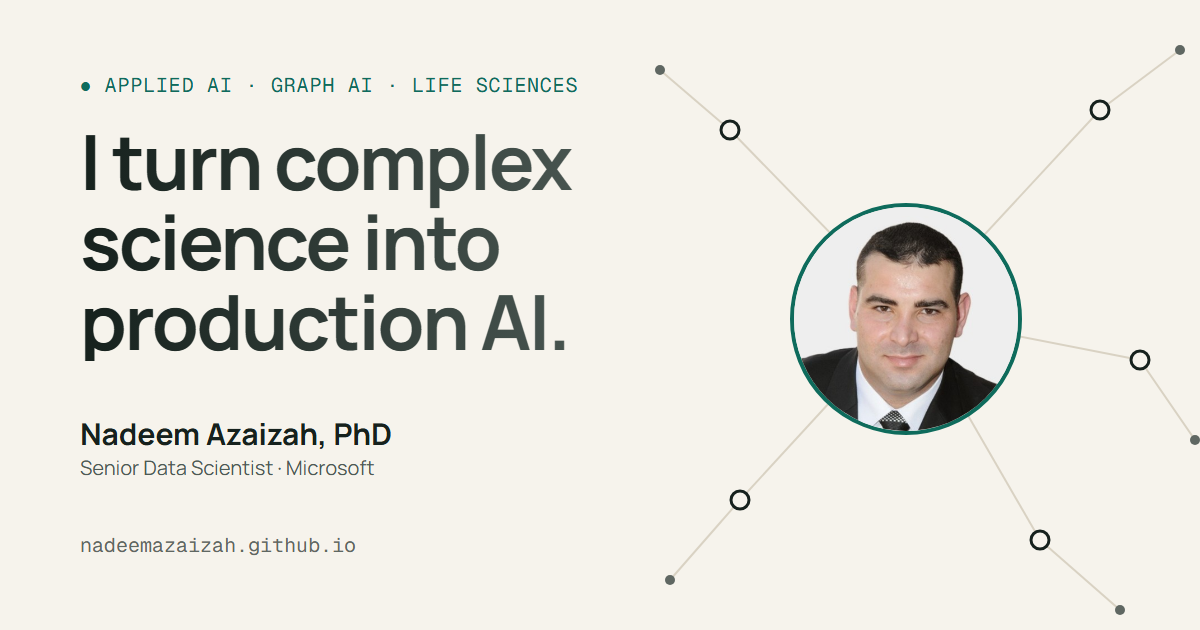
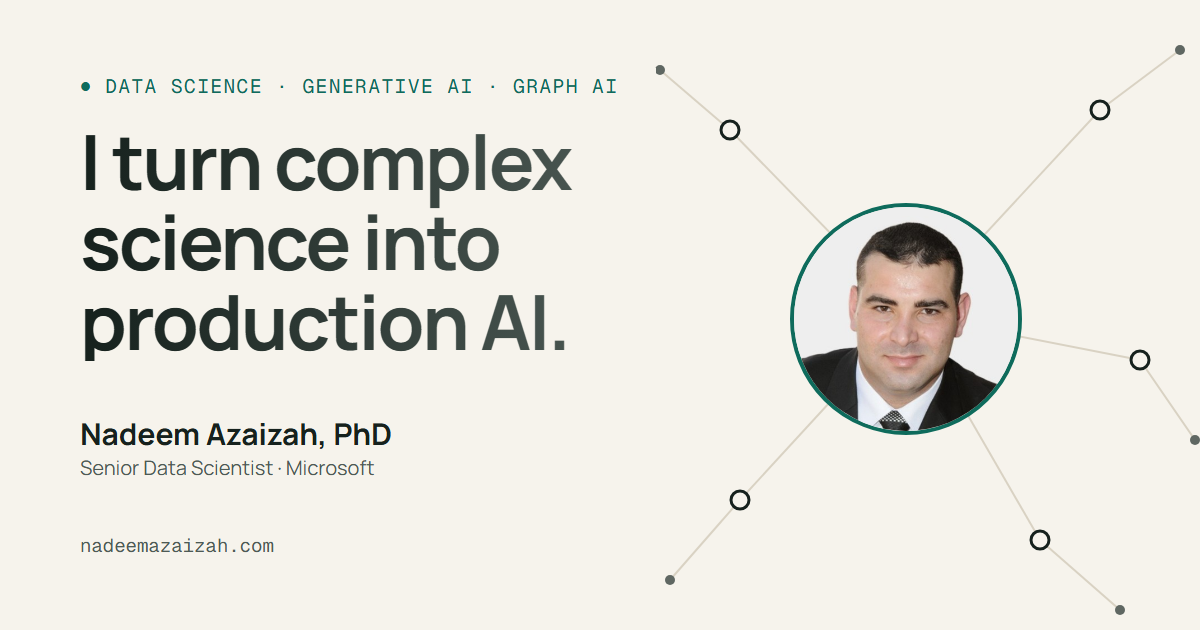
Use custom domain nadeemazaizah.com
Also ships the refreshed link preview image.

Changed region(s): [[0.0925, 0.1206, 0.5242, 0.1508], [0.0617, 0.8444, 0.3083, 0.8746]]

diff --git a/index.html b/index.html
@@ -7,19 +7,19 @@
   <meta name="description" content="Nadeem Azaizah is a Senior Data Scientist at Microsoft building production GenAI, RAG, multi agent and graph based AI systems, from research to deployment. PhD in graph based machine learning.">
   <meta name="author" content="Nadeem Azaizah">
   <meta name="theme-color" content="#F6F3EC">
-  <link rel="canonical" href="https://nadeemazaizah.github.io/">
+  <link rel="canonical" href="https://nadeemazaizah.com/">
 
   <meta property="og:type" content="profile">
   <meta property="og:title" content="Nadeem Azaizah, PhD · Applied AI and Graph AI">
   <meta property="og:description" content="Senior Data Scientist at Microsoft. Production GenAI, agentic and graph based AI, from research to deployment.">
-  <meta property="og:url" content="https://nadeemazaizah.github.io/">
-  <meta property="og:image" content="https://nadeemazaizah.github.io/assets/img/og.png">
+  <meta property="og:url" content="https://nadeemazaizah.com/">
+  <meta property="og:image" content="https://nadeemazaizah.com/assets/img/og.png">
   <meta property="og:image:width" content="1200">
   <meta property="og:image:height" content="630">
   <meta name="twitter:card" content="summary_large_image">
   <meta name="twitter:title" content="Nadeem Azaizah, PhD · Applied AI and Graph AI">
   <meta name="twitter:description" content="Senior Data Scientist at Microsoft. Production GenAI, agentic and graph based AI, from research to deployment.">
-  <meta name="twitter:image" content="https://nadeemazaizah.github.io/assets/img/og.png">
+  <meta name="twitter:image" content="https://nadeemazaizah.com/assets/img/og.png">
 
   <link rel="icon" href="favicon.svg" type="image/svg+xml">
   <link rel="apple-touch-icon" href="assets/img/profile.jpg">
@@ -44,8 +44,8 @@
       { "@type": "CollegeOrUniversity", "name": "Ariel University" },
       { "@type": "CollegeOrUniversity", "name": "University of Haifa" }
     ],
-    "url": "https://nadeemazaizah.github.io/",
-    "image": "https://nadeemazaizah.github.io/assets/img/profile.jpg",
+    "url": "https://nadeemazaizah.com/",
+    "image": "https://nadeemazaizah.com/assets/img/profile.jpg",
     "knowsAbout": ["Generative AI", "Large Language Models", "Retrieval Augmented Generation", "Multi agent systems", "Knowledge graphs", "Graph neural networks", "AI evaluation", "MLOps"],
     "sameAs": [
       "https://www.linkedin.com/in/nadeem-azaizah/",

diff --git a/README.md b/README.md
@@ -2,7 +2,7 @@
 
 Personal website of **Nadeem Azaizah, PhD**, Senior Data Scientist at Microsoft (Applied AI, GenAI and Graph AI).
 
-Live: https://nadeemazaizah.github.io
+Live: https://nadeemazaizah.com
 
 ## Stack
 
@@ -36,3 +36,5 @@ Then open http://localhost:8000.
 ## Deploy
 
 GitHub Pages serves the `main` branch root. Push to `main` and the site updates within a minute.
+
+Custom domain: `nadeemazaizah.com`, set by the `CNAME` file. DNS lives in Cloudflare (DNS only, not proxied): four A records for `@` pointing to 185.199.108.153, .109.153, .110.153 and .111.153, plus a `www` CNAME to `nadeemazaizah.github.io`.
